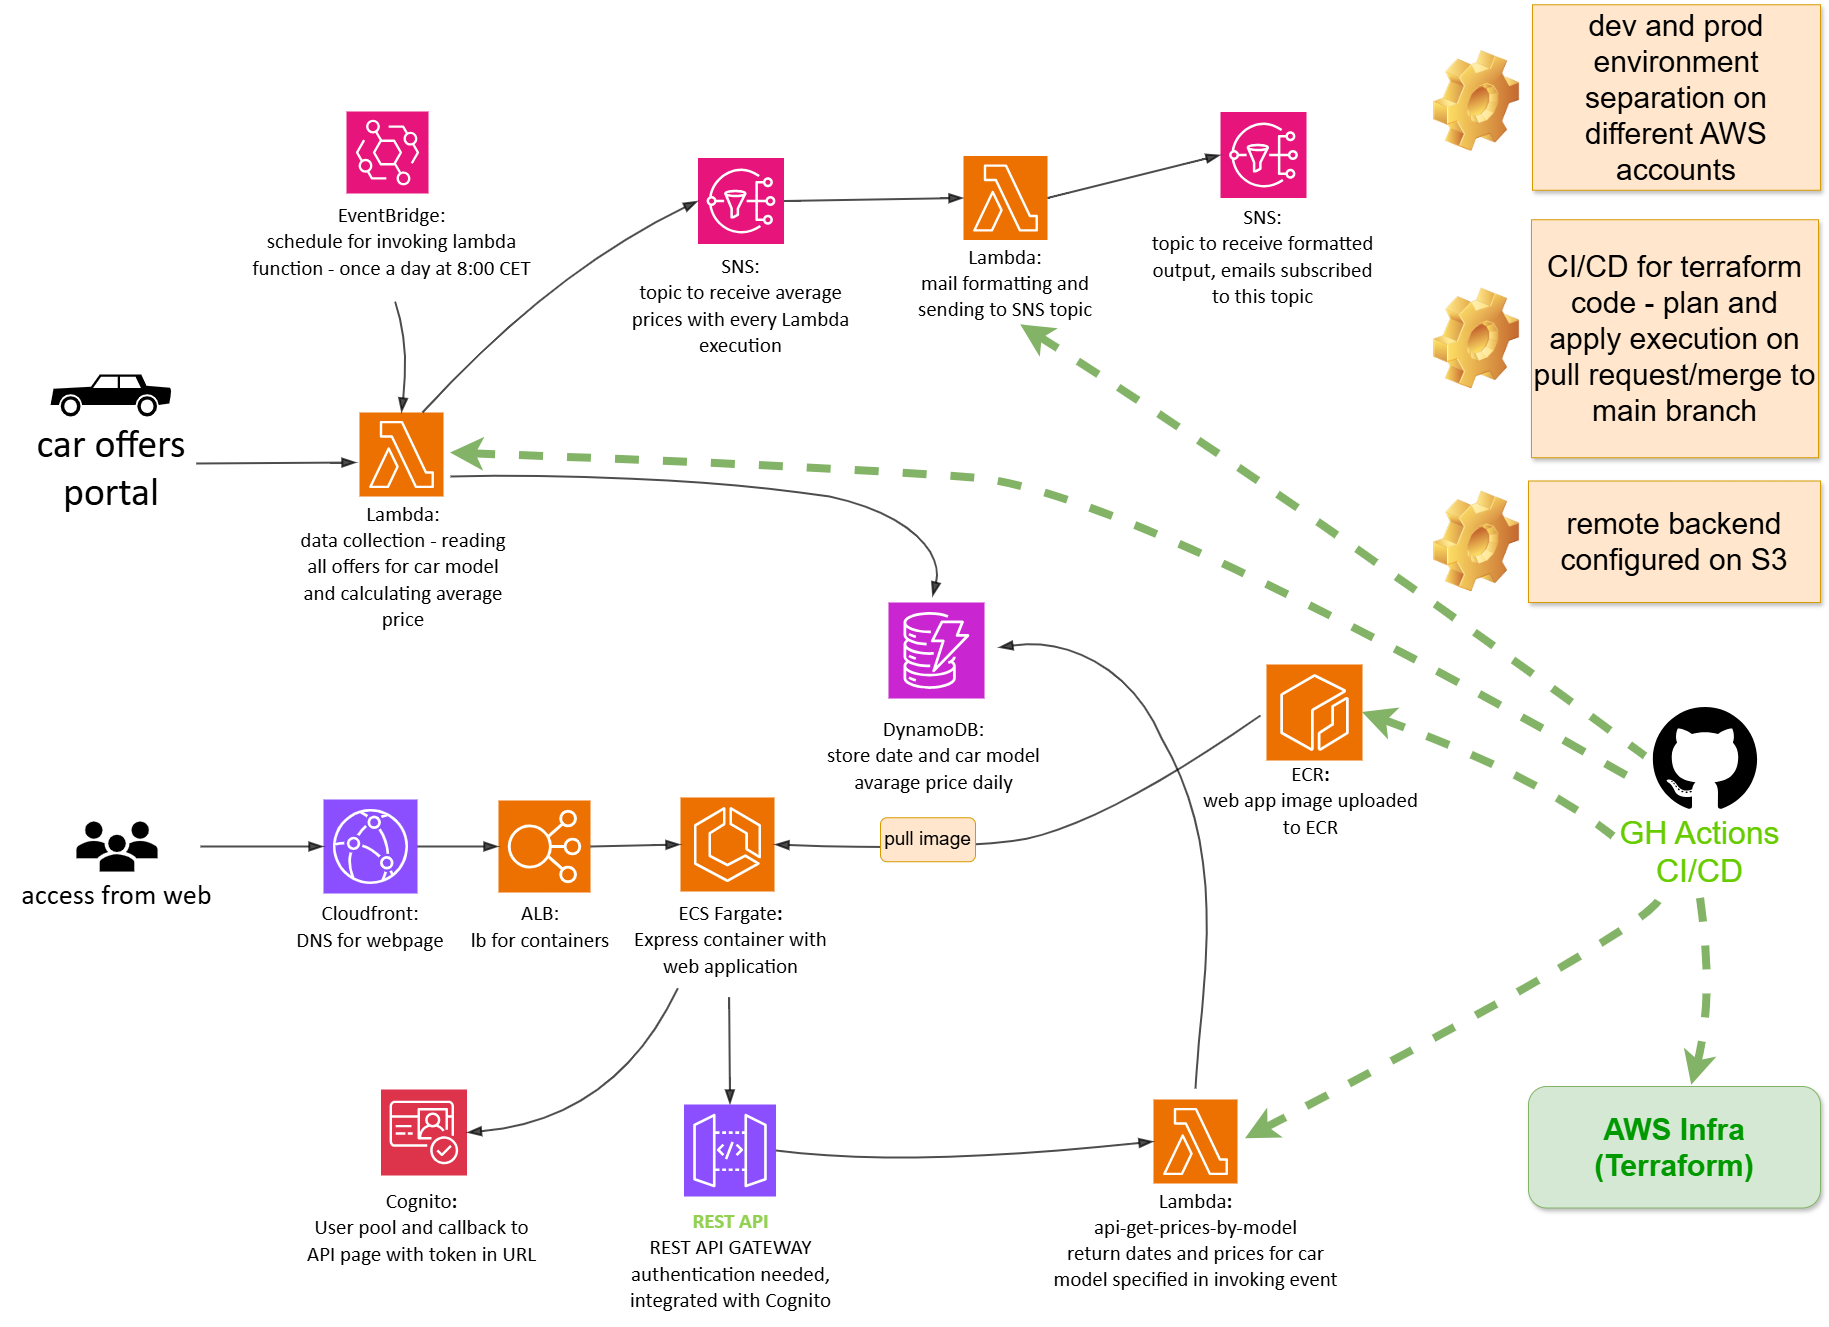
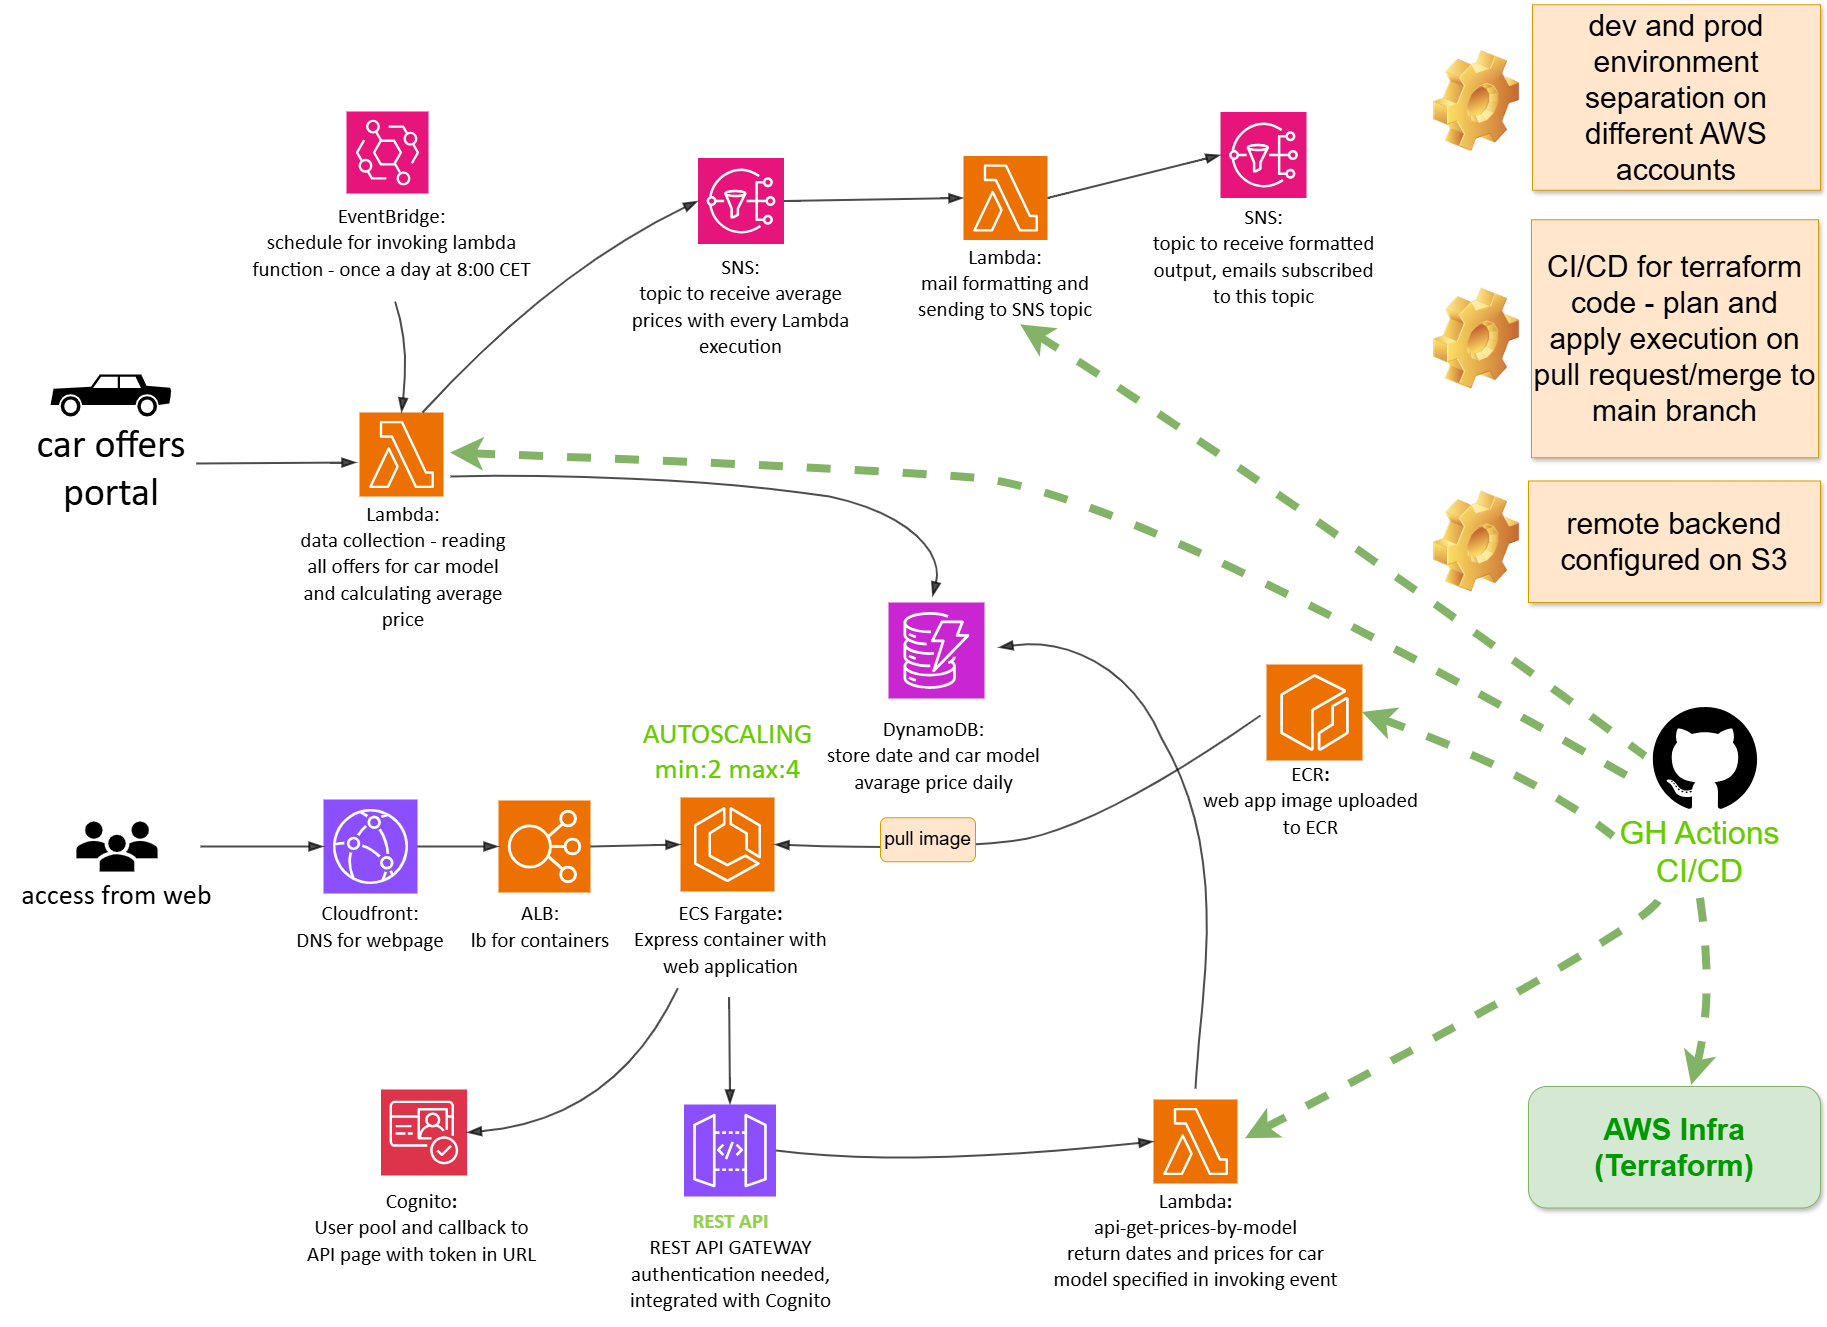
docs: update of architecture diagram and readme with autoscaling info

diff --git a/README.md b/README.md
@@ -2,7 +2,7 @@
 
 Project created out of curiosity to check if prices for cars manufactured in specific year are getting lower with time or the inflation/quality keep the price high.
 
-This repository is an **evolution of the original [aws-car-prices-tracker](https://github.com/dbembnista1/aws-car-prices-tracker)** project. The core application logic (scraping, API, charts) stays the same — the focus here is on cloud engineering improvements: containerized web on **ECS Fargate** (replacing EC2 and also intruducing CloudFront and ALB), CI/CD including Terraform code changes (triggered on PR), remote Terraform state, and **dev/prod** separation using separate AWS accounts, state files and folder structure.
+This repository is an **evolution of the original [aws-car-prices-tracker](https://github.com/dbembnista1/aws-car-prices-tracker)** project. The core application logic (scraping, API, charts) stays the same — the focus here is on cloud engineering improvements: containerized web on **ECS Fargate** (replacing EC2 and also introducing CloudFront and ALB), **CPU-based ECS autoscaling**, CI/CD including Terraform code changes (triggered on PR), remote Terraform state, and **dev/prod** separation using separate AWS accounts, state files and folder structure.
 
 
 ## 🏗️ Architecture Overview
@@ -11,7 +11,7 @@ The system is divided into three main logical components:
 
 1. **Data Collection (Event-Driven)**: An AWS EventBridge cron job triggers a Python Lambda function daily at 08:00 CET. It scrapes car prices from external sources, stores calculated averages in Amazon DynamoDB, and — on success — publishes the result to SNS via Lambda Destinations.
 2. **Notification Pipeline (Pipes & Filters)**: The raw SNS topic triggers a formatting Lambda, which prepares the message and publishes it to a second SNS topic that delivers email notifications to subscribers.
-3. **Web Application & API**: Users reach a Node.js/Express container running on **ECS Fargate** behind CloudFront and an Application Load Balancer. The homepage reads price history directly from DynamoDB; authenticated API calls go through **API Gateway** (two Lambda functions) secured with **Amazon Cognito** (OAuth2 / Hosted UI). Container images are stored in **ECR** and deployed via GitHub Actions.
+3. **Web Application & API**: Users reach a Node.js/Express container running on **ECS Fargate** behind CloudFront and an Application Load Balancer. **Application Auto Scaling** keeps 2–4 tasks running (CPU target 70%) for HA across AZs; after deploy, task count is managed by autoscaling, not Terraform. The homepage reads price history directly from DynamoDB; authenticated API calls go through **API Gateway** (two Lambda functions) secured with **Amazon Cognito** (OAuth2 / Hosted UI). Container images are stored in **ECR** and deployed via GitHub Actions.
 
 <p align="center">
   <img src="architecture%20diagram.png" alt="AWS architecture diagram" width="100%" />
@@ -30,6 +30,7 @@ All workflows authenticate to AWS via **OIDC** — no long-lived access keys in 
 ## ✨ Key Features
 * **100% Infrastructure as Code**: Fully modularized Terraform setup with conditional resource creation.
 * **Containerized Web Tier**: Express.js runs as a Docker container on ECS Fargate — no EC2 management, no SSH/SCP deploys.
+* **ECS Auto Scaling**: CPU target tracking (70%) with min 2 / max 4 Fargate tasks; Terraform sets the initial count and then ignores `desired_count` so scaling is driven by load.
 * **Zero-Downtime Deployments**: CI/CD pipelines automatically build, zip, and deploy Lambda code and container images without manual intervention.
 * **Secure Authentication**: API endpoints protected by AWS Cognito User Pools.
 * **Serverless Notifications**: Decoupled email notification system utilizing Lambda Destinations and SNS.
@@ -37,7 +38,7 @@ All workflows authenticate to AWS via **OIDC** — no long-lived access keys in 
 * **Dynamic Configuration**: Features such as the data collector and email notifications can be toggled on/off via `.tfvars`.
 
 ## 🛠️ Tech Stack
-* **Cloud Provider**: AWS (ECS Fargate, ECR, ALB, CloudFront, Lambda, DynamoDB, API Gateway, Cognito, SNS, EventBridge, IAM, VPC, S3)
+* **Cloud Provider**: AWS (ECS Fargate, Application Auto Scaling, ECR, ALB, CloudFront, Lambda, DynamoDB, API Gateway, Cognito, SNS, EventBridge, IAM, VPC, S3)
 * **Infrastructure as Code**: Terraform (remote state on S3 + DynamoDB locking)
 * **CI/CD**: GitHub Actions (OIDC authentication)
 * **Backend**: Python 3.14 (Lambdas, BeautifulSoup, Pandas), Node.js / Express (charts & API client)
@@ -76,8 +77,9 @@ terraform/
         └── backend.conf
 
 scripts/
-├── deploy-dev.ps1 / deploy-dev.sh   # Dev deploy scripts
-└── deploy-prod.ps1 / deploy-prod.sh # Prod deploy scripts
+├── deploy-dev.ps1 / deploy-dev.sh       # Dev deploy scripts
+├── deploy-prod.ps1 / deploy-prod.sh     # Prod deploy scripts
+└── test-ecs-autoscaling.ps1             # Verify scaling config; optional ALB load test
 ```
 
 No shared state bucket or cross-account access — each side has its own bootstrap, backend, and AWS account.